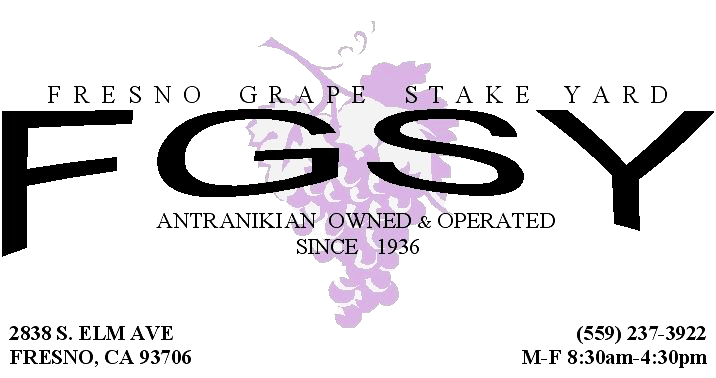
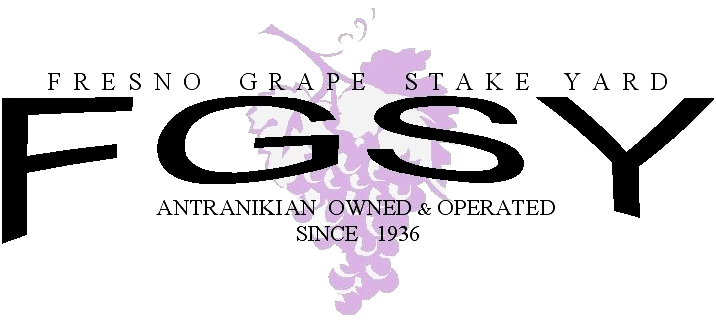
replace working hours and phone number in header with table

diff --git a/_layouts/about.html b/_layouts/about.html
@@ -7,33 +7,37 @@ layout: default
     <img src="assets/fgsy.png" alt="Contact details" />
   </div>
 
-  <div class="table-left">
-    <i class="fa fa-calendar-week"></i>
-  </div>
-  <div class="table-right">
-    M-F 8:30AM-4:00PM
-  </div>
-  <div class="clear table-left">
-    <i class="fa fa-credit-card"></i>
-  </div>
-  <div class="table-right">
-    We accept Visa, Mastercard, Discover, and Debit Cards.
-  </div>
-  <div class="clear table-left">
-    <i class="fa fa-map-marker"></i>
-  </div>
-  <div class="table-right">
-    2838 S. Elm Ave<br />
-    Fresno, CA 93706
-  </div>
-
-  <a href="http://goo.gl/zjqoig">
-    <div class="map">
-      <img class="fill-w" src="assets/map.png" alt="Map to Fresno Grape Stake Yard" />
+  <div class="table">
+    <div class="table-left">
+      <i class="fa fa-calendar"></i>
     </div>
+    <div class="table-right">
+      Open M-F 8:30AM-4:00PM
+    </div>
+    <div class="table-left">
+      <i class="fa fa-credit-card"></i>
+    </div>
+    <div class="table-right">
+      We accept Visa, Mastercard, Discover, and Debit Cards.
+    </div>
+    <div class="table-left">
+      <i class="fa fa-map-marker"></i>
+    </div>
+    <div class="table-right">
+      2838 S. Elm Ave, Fresno, CA 93706
+    </div>
+    <div class="clear"></div>
+  </div>
 
-    View Larger Map
-  </a>
+  <div>
+    <a href="http://goo.gl/zjqoig">
+      <div class="clear map">
+        <img class="fill-w" src="assets/map.png" alt="Map to Fresno Grape Stake Yard" />
+      </div>
+
+      View Larger Map
+    </a>
+  </div>
 
   <div>
     <a href="http://i.imgur.com/tFzVc.jpg" rel="lightbox">

diff --git a/_sass/minima/_layout.scss b/_sass/minima/_layout.scss
@@ -8,22 +8,29 @@ li {
 
 // About page
 
+.table {
+  padding: 1em 0;
+  width: 35em;
+  margin: 0 auto;
+}
+
 .table-left {
   float: left;
-  width: 15em;
-  padding: 0.5em;
+  width: 2em;
+  padding: 0.25em;
 }
 
 .table-right {
   float: left;
-  width: 20em;
-  padding: 0.5em;
+  width: 30em;
+  padding: 0.25em;
+  text-align: left;
 }
 
 .fgsy-card {
   @extend %mild-shadow;
   background-color: #fff;
-  padding: 1em;
+  padding: 0.5em;
   margin-bottom: 0.5em;
 }
 
